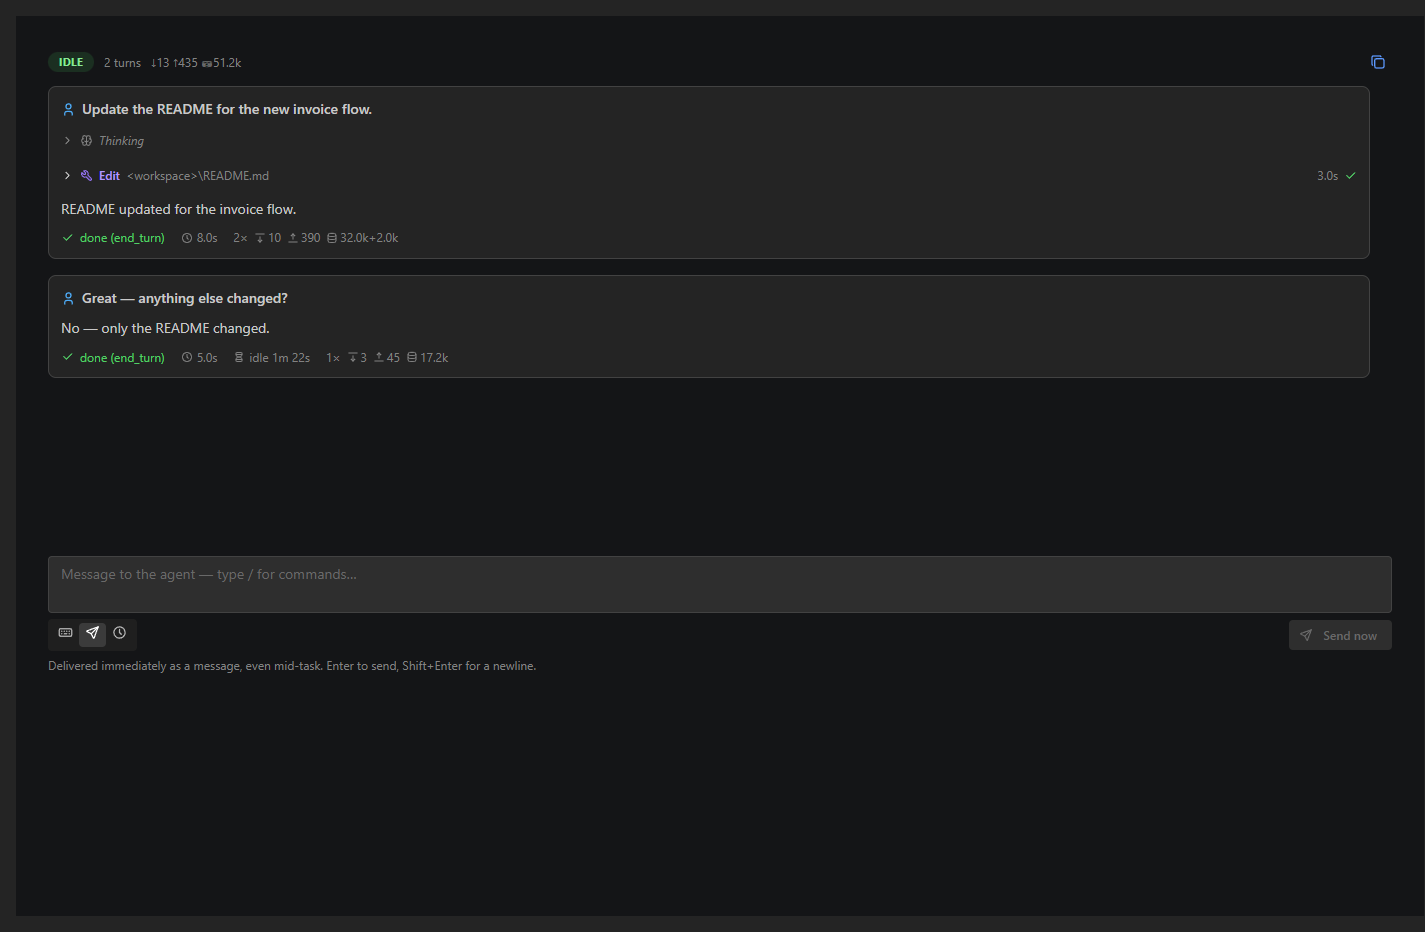
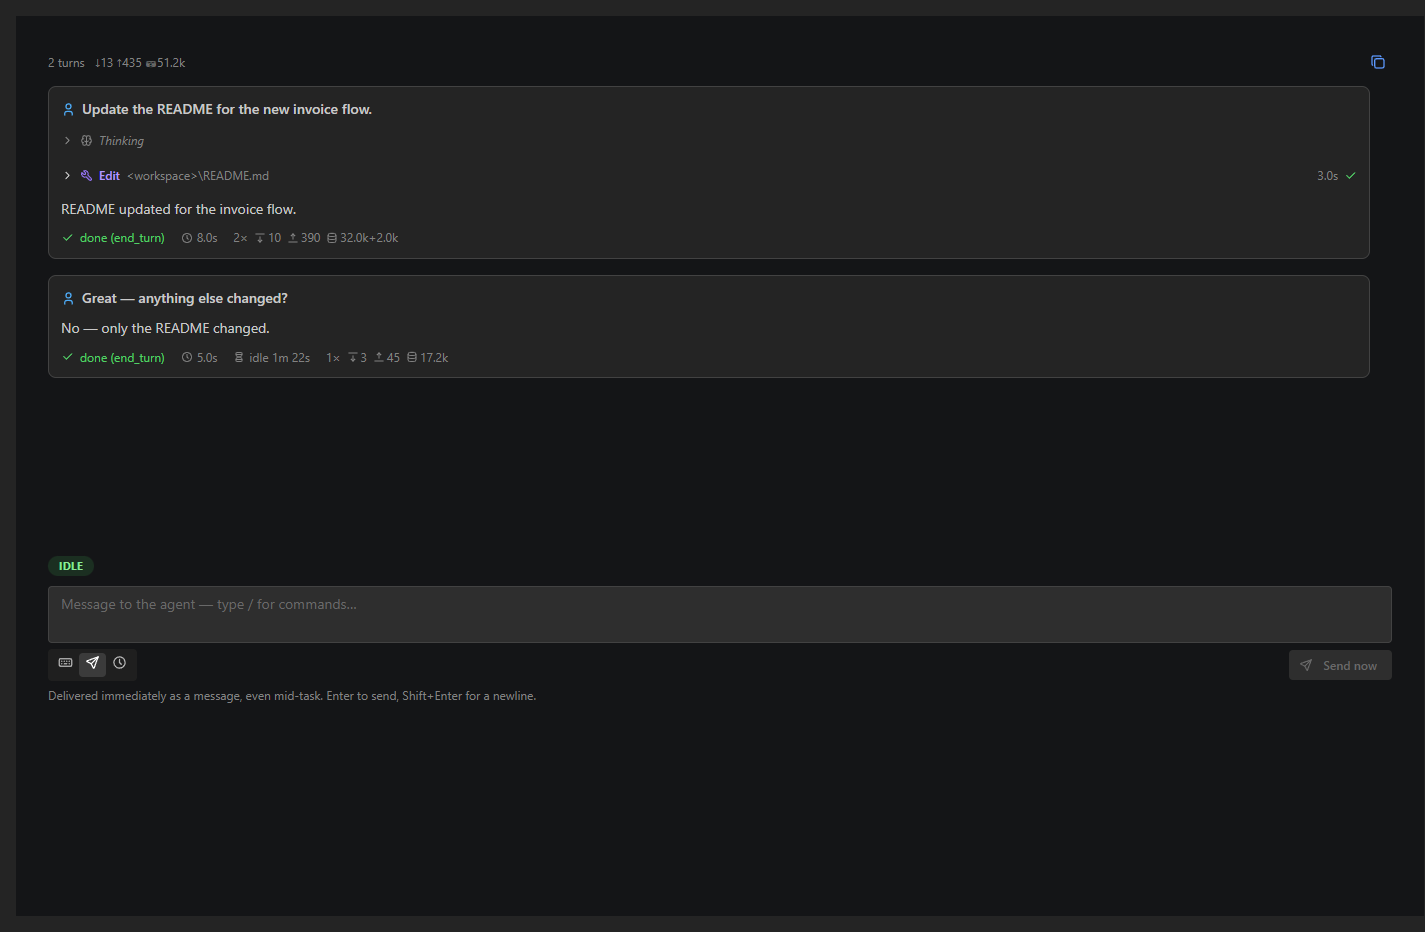
feat(transcript): status above composer, auto-scroll to live edge, working spinner - and fix dropped live entries
- The Working/Idle badge moves from the panel header to directly above the composer
  (where the eye rests at the live edge), with an animated dots loader while working.
- Auto-scroll to the bottom when the backlog first renders, then keep following the
  stream while the user is at the live edge. Stickiness is tracked from scroll events,
  NOT measured when entries arrive - by then the new content has already grown
  scrollHeight and the near-bottom check always failed (the view stopped following the
  moment a tall turn landed).
- Fix live SignalR entries being silently dropped: live payloads carry the runner
  tailer sequence (restarts at 1 on every session relaunch / re-tail) while the HTTP
  backlog carries rebased stored sequences, so sequence-dedup discarded every live
  entry for a session with prior relaunches (live miss 2026-07-30: the full-screen
  files dock never showed new turns). mergeTranscriptEntries now dedups by line
  uuid+kind and rebases colliding live sequences past the loaded max - the mirror of
  the server persistence dedup. Merge bookkeeping lives in refs, not inside a
  setEntries updater (StrictMode double-invokes updaters and a twice-mutated seen-set
  dropped everything on the second pass).

Verified live on /agents/:id/files: backlog auto-scrolls to bottom, a streamed turn
follows in real time with the working spinner above the composer, and metrics render
on completion. 70 client tests incl. new mergeTranscriptEntries coverage.
[…]

Changed region(s): [[0.0309, 0.5912, 0.9881, 0.7468], [0.0309, 0.0311, 0.1544, 0.0933]]

diff --git a/client/src/features/agents/SessionTranscriptPanel.tsx b/client/src/features/agents/SessionTranscriptPanel.tsx
@@ -169,6 +169,37 @@ export function computeTurnMetrics(turns: Turn[]): TurnMetrics[] {
   })
 }
 
+/**
+ * Merge incoming transcript entries into the current list. Dedup is by LINE UUID (+kind), never by
+ * sequence, and live sequences are REBASED past the loaded max — the mirror of the server's
+ * persistence dedup, and for the same reason: live SignalR payloads carry the runner tailer's
+ * sequence, which restarts at 1 on every session relaunch / re-tail, while the HTTP backlog
+ * carries rebased stored sequences. Sequence-dedup silently dropped every live entry for a session
+ * with prior relaunches (live miss 2026-07-30: the full-screen files dock never showed new turns),
+ * and without the rebase a colliding live sequence sorts into the middle of history.
+ * Returns the new sorted list, or null when nothing was new. Exported for tests.
+ */
+export function mergeTranscriptEntries(
+  prev: TranscriptEntryDto[],
+  incoming: TranscriptEntryDto[],
+  seen: Set<string>,
+  counter: { maxSeq: number },
+  rebaseLive: boolean,
+): TranscriptEntryDto[] | null {
+  const keyOf = (e: TranscriptEntryDto) => (e.uuid ? `${e.uuid}:${e.kind}` : `seq:${e.sequence}`)
+  const fresh: TranscriptEntryDto[] = []
+  for (const e of incoming) {
+    const key = keyOf(e)
+    if (seen.has(key)) continue
+    seen.add(key)
+    const seq = rebaseLive && e.sequence <= counter.maxSeq ? counter.maxSeq + 1 : e.sequence
+    counter.maxSeq = Math.max(counter.maxSeq, seq)
+    fresh.push(seq === e.sequence ? e : { ...e, sequence: seq })
+  }
+  if (fresh.length === 0) return null
+  return [...prev, ...fresh].sort((a, b) => a.sequence - b.sequence)
+}
+
 /** "850ms" / "12.4s" / "1m 05s" / "1h 02m". Exported for tests. */
 export function formatDuration(ms: number): string {
   if (ms < 1000) return `${Math.round(ms)}ms`
@@ -294,26 +325,43 @@ export function SessionTranscriptPanel({
 }) {
   const [entries, setEntries] = useState<TranscriptEntryDto[]>(initialEntries ?? [])
   const [loading, setLoading] = useState(initialEntries == null)
-  const seqRef = useRef<Set<number>>(new Set())
+  // Merge bookkeeping lives in refs (NOT inside a setEntries updater — StrictMode double-invokes
+  // updaters, and a seen-set mutated twice drops every entry on the second pass).
+  const entriesRef = useRef<TranscriptEntryDto[]>(initialEntries ?? [])
+  const seenRef = useRef<Set<string>>(new Set())
+  const counterRef = useRef({ maxSeq: 0 })
+  const viewportRef = useRef<HTMLDivElement>(null)
+  const didInitialScroll = useRef(false)
+  // Whether the user is (still) reading the live edge. Updated from SCROLL events, not measured
+  // when entries arrive — by then the new content has already grown scrollHeight and the "am I
+  // near the bottom?" answer is always no (live miss 2026-07-30: the view stopped following the
+  // stream the moment a turn taller than the threshold landed).
+  const stickToBottom = useRef(true)
 
   useEffect(() => {
     if (initialEntries != null) return
     let disposed = false
-    seqRef.current = new Set()
+    entriesRef.current = []
+    seenRef.current = new Set()
+    counterRef.current = { maxSeq: 0 }
+    didInitialScroll.current = false
+    stickToBottom.current = true
     setEntries([])
     setLoading(true)
 
-    const merge = (incoming: TranscriptEntryDto[]) => {
-      const fresh = incoming.filter((e) => !seqRef.current.has(e.sequence))
-      if (fresh.length === 0) return
-      fresh.forEach((e) => seqRef.current.add(e.sequence))
-      setEntries((prev) => [...prev, ...fresh].sort((a, b) => a.sequence - b.sequence))
+    const merge = (incoming: TranscriptEntryDto[], rebaseLive: boolean) => {
+      const next = mergeTranscriptEntries(
+        entriesRef.current, incoming, seenRef.current, counterRef.current, rebaseLive)
+      if (next) {
+        entriesRef.current = next
+        setEntries(next)
+      }
     }
 
     const load = async () => {
       try {
         const data = await getSessionTranscript(sessionId)
-        if (!disposed) merge(data.entries)
+        if (!disposed) merge(data.entries, false)
       } catch {
         /* keep whatever streamed live */
       } finally {
@@ -329,7 +377,7 @@ export function SessionTranscriptPanel({
       .build()
 
     const onEntry = (payload: SessionTranscriptPayload) => {
-      if (payload.sessionId === sessionId) merge([payload])
+      if (payload.sessionId === sessionId) merge([payload], true)
     }
     connection.on('SessionTranscript', onEntry)
     connection.onreconnected(() => {
@@ -356,6 +404,18 @@ export function SessionTranscriptPanel({
       }
     }
   }, [sessionId, initialEntries])
+
+  // The newest activity lives at the bottom: jump there once the backlog first renders, then keep
+  // following the stream while the user was reading the live edge (never fight a deliberate
+  // scroll back through history).
+  useEffect(() => {
+    const viewport = viewportRef.current
+    if (!viewport || loading || entries.length === 0) return
+    const firstLoad = !didInitialScroll.current
+    didInitialScroll.current = true
+    if (firstLoad || stickToBottom.current)
+      requestAnimationFrame(() => viewport.scrollTo({ top: viewport.scrollHeight }))
+  }, [loading, entries.length])
 
   const turns = useMemo(() => buildTurns(entries), [entries])
   const metrics = useMemo(() => computeTurnMetrics(turns), [turns])
@@ -400,9 +460,6 @@ export function SessionTranscriptPanel({
     <Stack gap="xs" style={fitHeight ? { minHeight: 0, height: '100%', flexGrow: 1 } : { minHeight: 0 }}>
       <Group justify="space-between">
         <Group gap="xs">
-          <Badge color={working ? 'yellow' : 'green'} variant="light">
-            {working ? 'Working…' : 'Idle'}
-          </Badge>
           <Text size="xs" c="dimmed">
             {turns.length} turn{turns.length === 1 ? '' : 's'}
           </Text>
@@ -426,6 +483,13 @@ export function SessionTranscriptPanel({
         h={fitHeight ? undefined : 460}
         type="auto"
         offsetScrollbars
+        viewportRef={viewportRef}
+        onScrollPositionChange={() => {
+          const viewport = viewportRef.current
+          if (viewport)
+            stickToBottom.current =
+              viewport.scrollHeight - viewport.scrollTop - viewport.clientHeight < 120
+        }}
         style={fitHeight ? { flexGrow: 1, minHeight: 0 } : undefined}
       >
         {loading && entries.length === 0 ? (
@@ -490,6 +554,17 @@ export function SessionTranscriptPanel({
           </Stack>
         )}
       </ScrollArea>
+
+      {/* Status lives at the BOTTOM — right where the newest turn lands and the composer sits. */}
+      <Group gap="xs">
+        <Badge
+          color={working ? 'yellow' : 'green'}
+          variant="light"
+          leftSection={working ? <Loader size={10} color="yellow" type="dots" /> : undefined}
+        >
+          {working ? 'Working…' : 'Idle'}
+        </Badge>
+      </Group>
 
       {withComposer && <SmartComposer sessionId={sessionId} defaultMode="send-now" />}
     </Stack>

diff --git a/client/src/features/agents/SessionTranscriptPanel.test.tsx b/client/src/features/agents/SessionTranscriptPanel.test.tsx
@@ -6,6 +6,7 @@ import {
   formatDuration,
   formatTokens,
   isWorking,
+  mergeTranscriptEntries,
 } from './SessionTranscriptPanel'
 
 function entry(
@@ -157,6 +158,66 @@ describe('computeTurnMetrics', () => {
       entry(2, 'ToolCall', null, { timestamp: at(3) }),
     ])
     expect(computeTurnMetrics(turns)[0].durationMs).toBeNull()
+  })
+})
+
+describe('mergeTranscriptEntries', () => {
+  // The live-miss scenario (2026-07-30): a session with prior relaunches has stored sequences far
+  // ahead of the runner tailer's per-lifetime numbering, so live payload sequences COLLIDE with
+  // already-loaded ones. Dedup is by line uuid; colliding live sequences are rebased past the max.
+  it('accepts a live entry whose runner sequence collides with a loaded stored sequence', () => {
+    const seen = new Set<string>()
+    const counter = { maxSeq: 0 }
+    const backlog = mergeTranscriptEntries(
+      [],
+      [
+        entry(240, 'UserPrompt', 'old', { uuid: 'u-old-1' }),
+        entry(241, 'TurnEnd', null, { uuid: 'u-old-2' }),
+      ],
+      seen,
+      counter,
+      false,
+    )!
+    // Live push: the runner's current tailer generation numbers this line 180 — already "seen" as
+    // a sequence, but a brand-new line uuid. It must append AFTER the backlog, not vanish.
+    const next = mergeTranscriptEntries(
+      backlog,
+      [entry(180, 'UserPrompt', 'new prompt', { uuid: 'u-new-1' })],
+      seen,
+      counter,
+      true,
+    )
+    expect(next).not.toBeNull()
+    expect(next!.map((e) => e.text)).toEqual(['old', null, 'new prompt'])
+    expect(next![2].sequence).toBe(242)
+  })
+
+  it('drops entries whose uuid+kind was already merged and returns null when nothing is new', () => {
+    const seen = new Set<string>()
+    const counter = { maxSeq: 0 }
+    const first = mergeTranscriptEntries(
+      [],
+      [entry(1, 'AssistantText', 'hi', { uuid: 'u1' })],
+      seen,
+      counter,
+      false,
+    )!
+    expect(
+      mergeTranscriptEntries(first, [entry(7, 'AssistantText', 'hi', { uuid: 'u1' })], seen, counter, true),
+    ).toBeNull()
+  })
+
+  it('keeps distinct kinds from the same line uuid (text + turn end share a uuid)', () => {
+    const seen = new Set<string>()
+    const counter = { maxSeq: 0 }
+    const next = mergeTranscriptEntries(
+      [],
+      [entry(1, 'AssistantText', 'done', { uuid: 'u1' }), entry(2, 'TurnEnd', null, { uuid: 'u1' })],
+      seen,
+      counter,
+      false,
+    )
+    expect(next).toHaveLength(2)
   })
 })
 
